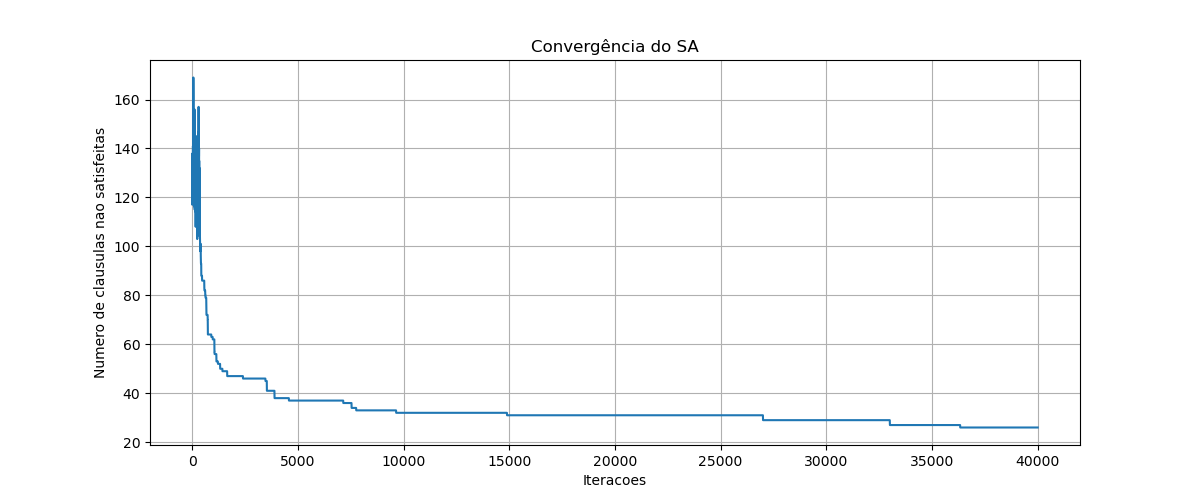
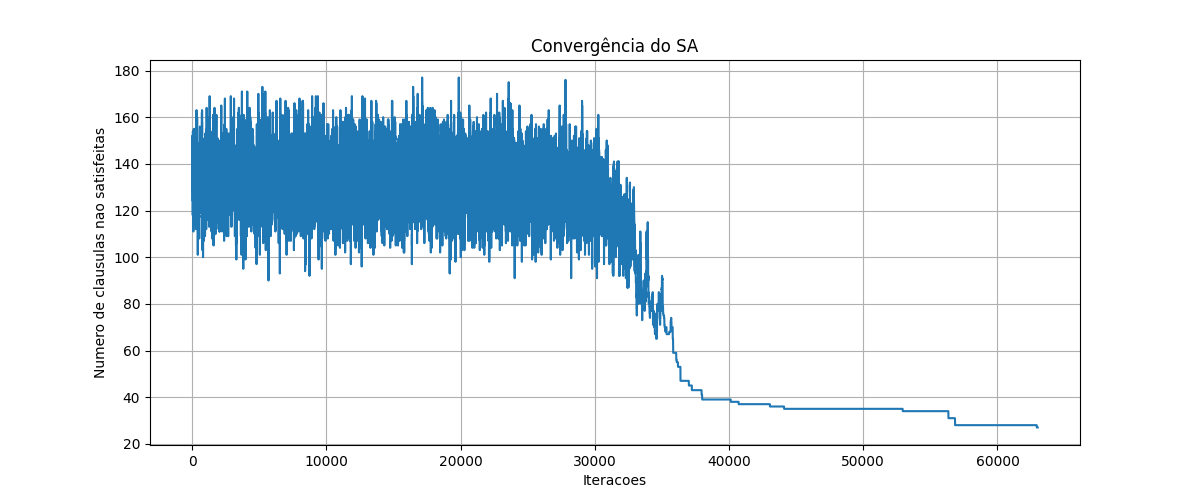
segunda versão do resolvedor sat

diff --git a/sat/sat2.py b/sat/sat2.py
@@ -1,0 +1,151 @@
+import random
+import math
+import matplotlib.pyplot as plt
+
+def ler_instancia(arquivo):
+    clausulas = []
+    numeroLiterais = 0
+    with open(arquivo, 'r') as f:
+        for linha in f:
+            if linha.startswith('c') or linha.startswith('0') or linha.startswith('%') or linha.startswith('\n'):
+                continue
+            if linha.startswith('p'):
+                linha = linha.split()
+                numeroLiterais = int(linha[2])
+                #print(numeroLiterais)
+                continue
+            else:
+                clausula = [int(x) for x in linha.strip().split()]
+            #print(clausula)
+            
+            if clausula[-1] == 0:
+                clausula.pop()
+            clausulas.append(clausula)
+    return clausulas, numeroLiterais
+
+def gerar_solucao_aleatoria(n_variaveis):
+    return [random.choice([True, False]) for _ in range(n_variaveis)]
+
+def calcular_clausulas_nao_satisfeitas(clausulas, solucao):
+    nao_satisfeitas = 0
+    for clausula in clausulas:
+        satisfeita = False
+        for literal in clausula:
+            var_index = abs(literal) - 1
+            if (literal > 0 and solucao[var_index]) or (literal < 0 and not solucao[var_index]):
+                satisfeita = True
+                break
+        if not satisfeita:
+            nao_satisfeitas += 1
+    return nao_satisfeitas
+
+# Rotina para geração de vizinho
+def gerar_vizinho(solucao, percentual_modificacao=0.05):
+    n_variaveis = len(solucao)
+    n_bits_flip = max(1, int(percentual_modificacao * n_variaveis))  # Define a quantidade de bits a serem modificados (pelo menos 1)
+    
+    nova_solucao = solucao[:]
+    indices_modificados = random.sample(range(n_variaveis), n_bits_flip)  # Escolhe aleatoriamente quais bits serão modificados
+    
+    for indice in indices_modificados:
+        nova_solucao[indice] = not nova_solucao[indice]  # Bit-flip (muda o bit de True para False ou vice-versa)
+    
+    return nova_solucao
+
+def coeficiente_temperatura_logistica(T0, TN, it, itMax):
+    # Parâmetros para controlar a forma da curva sigmoidal
+    midpoint = itMax / 3  # Ponto médio das iterações onde a transição ocorre
+    steepness = 1000  # Ajusta a inclinação da transição; aumente para uma queda mais abrupta
+
+    # Função logística para controlar a temperatura
+    return TN + (T0 - TN) / (1 + math.exp((it - midpoint) / (itMax / steepness)))
+
+
+def simulated_annealing(clausulas, n_variaveis, T0, itMax, t, SAmAx):
+    solucao_atual = gerar_solucao_aleatoria(n_variaveis)
+    melhor_solucao = solucao_atual[:]
+    
+    f_atual = calcular_clausulas_nao_satisfeitas(clausulas, solucao_atual)
+    f_melhor = f_atual
+
+    historico_f_objetivo = [f_atual]
+    historico_temperatura = [T0]
+
+    T = T0
+    iteracoes = 0
+    
+    while iteracoes < itMax and T > 0.000000000001:
+        iterT = 0
+        
+        while iterT < SAmAx:
+            iterT += 1
+            iteracoes += 1
+            
+            # Gera vizinho e sua função
+            vizinho = gerar_vizinho(solucao_atual)
+            f_vizinho = calcular_clausulas_nao_satisfeitas(clausulas, vizinho)
+            
+            delta = f_vizinho - f_atual
+            
+            # Nova solução
+            if delta < 0:
+                solucao_atual = vizinho[:]
+                f_atual = f_vizinho
+                
+                # Melhor solução
+                if f_vizinho < f_melhor:
+                    melhor_solucao = vizinho[:]
+                    f_melhor = f_vizinho
+                    
+            else:
+                if random.uniform(0, 1) < math.exp(-delta / T):
+                    solucao_atual = vizinho[:]
+                    f_atual = f_vizinho
+
+            # Guarda para gráfico
+            historico_f_objetivo.append(f_atual)
+                    
+            # Guarda para gráfico
+            historico_temperatura.append(T)
+            T = coeficiente_temperatura_logistica(T0, 1, iteracoes, itMax)
+
+    return melhor_solucao, f_melhor, historico_f_objetivo, historico_temperatura
+
+
+if __name__ == "__main__":
+    arquivo_instancia = 'uf250-01.cnf'  # caminho
+    clausulas, numeroLiterais = ler_instancia(arquivo_instancia)
+    T0 = 10000
+    itMax = 80000
+    t = 1
+    SAmAx = 1000
+
+    solucao_final, valor_otimo, historico_f_objetivo, historico_temperatura = simulated_annealing(clausulas, numeroLiterais, T0, itMax, t, SAmAx)
+    
+    #print(f"Solucao otima: {solucao_final}")
+    print(f"Número de cláusulas não satisfeitas: {valor_otimo}")
+    
+    # Plotar o gráfico de convergência
+    plt.figure(figsize=(12, 5))
+
+    # Gráfico 1: Convergência do Simulated Annealing
+    plt.plot(historico_f_objetivo)
+    plt.title('Convergência do SA')
+    plt.xlabel('Iteracoes')
+    plt.ylabel('Numero de clausulas nao satisfeitas')
+    plt.grid(True)
+    
+    plt.savefig('simulated_annealing_convergence.png')
+    #plt.show()
+
+    # Gráfico 2: Queda da temperatura
+    plt.plot(historico_temperatura)
+    plt.title('Queda de temperatura durante SA')
+    plt.xlabel('Iteracoes')
+    plt.ylabel('Temperatura')
+    plt.grid(True)
+
+    plt.savefig('simulated_annealing_temperatura.png')
+    #plt.show()
+
+

diff --git a/sat/sat.py b/sat/sat.py
@@ -52,8 +52,9 @@ def gerar_vizinho(solucao, percentual_modificacao=0.05):
     
     return nova_solucao
 
-def temperatura_atual(T, it, itMax, t, T0):
-    return T * (1 - it/itMax)**t
+def coeficiente_temperatura_atual(T, it, itMax, t, T0, TN):
+    return (1 - it/itMax)**t
+    #return (T0 - TN) / (1 + math.exp(-3 * (it - itMax / 2) / itMax/10)) + TN
 
 def simulated_annealing(clausulas, n_variaveis, T0, itMax, t, SAmAx):
     solucao_atual = gerar_solucao_aleatoria(n_variaveis)
@@ -66,10 +67,9 @@ def simulated_annealing(clausulas, n_variaveis, T0, itMax, t, SAmAx):
     historico_temperatura = [T0]
 
     T = T0
-    T_grafico = T
     iteracoes = 0
     
-    while iteracoes < itMax and T_grafico > 0.0001:
+    while iteracoes < itMax and T > 0.000000000001:
         iterT = 0
         
         while iterT < SAmAx:
@@ -92,33 +92,27 @@ def simulated_annealing(clausulas, n_variaveis, T0, itMax, t, SAmAx):
                     melhor_solucao = vizinho[:]
                     f_melhor = f_vizinho
             else:
-                if random.uniform(0, 1) < math.exp(-delta / max(T,0.0000001)):
+                if random.uniform(0, 1) < math.exp(-delta / T):
                     solucao_atual = vizinho[:]
                     f_atual = f_vizinho
 
             #guarda para grafico
             historico_f_objetivo.append(f_atual)
-        
-            #atualiza temp
-            T = temperatura_atual(T, iteracoes, itMax, t, T0)
-            
+                    
             #guarda para grafico
-            historico_temperatura.append(T)
+            historico_temperatura.append(T*coeficiente_temperatura_atual(T, iteracoes, itMax, t, T0, 1))
 
         #atualiza temp
-        #T = temperatura_atual(T, iteracoes, itMax, t, T0)
-        
-        #guarda para grafico
-        #historico_temperatura.append(T)
-    
+        T = T*coeficiente_temperatura_atual(T, iteracoes, itMax, t, T0, 1)
+            
     return melhor_solucao, f_melhor, historico_f_objetivo, historico_temperatura
 
 if __name__ == "__main__":
-    arquivo_instancia = '/home/leonardo/Documentos/2024_02/IA/github/IA/sat/uf250-01.cnf'  # caminho
+    arquivo_instancia = 'uf250-01.cnf'  # caminho
     clausulas, numeroLiterais = ler_instancia(arquivo_instancia)
     T0 = 10000
-    itMax = 40000
-    t = 5
+    itMax = 80000
+    t = 1
     SAmAx = 1000
 
     solucao_final, valor_otimo, historico_f_objetivo, historico_temperatura = simulated_annealing(clausulas, numeroLiterais, T0, itMax, t, SAmAx)
